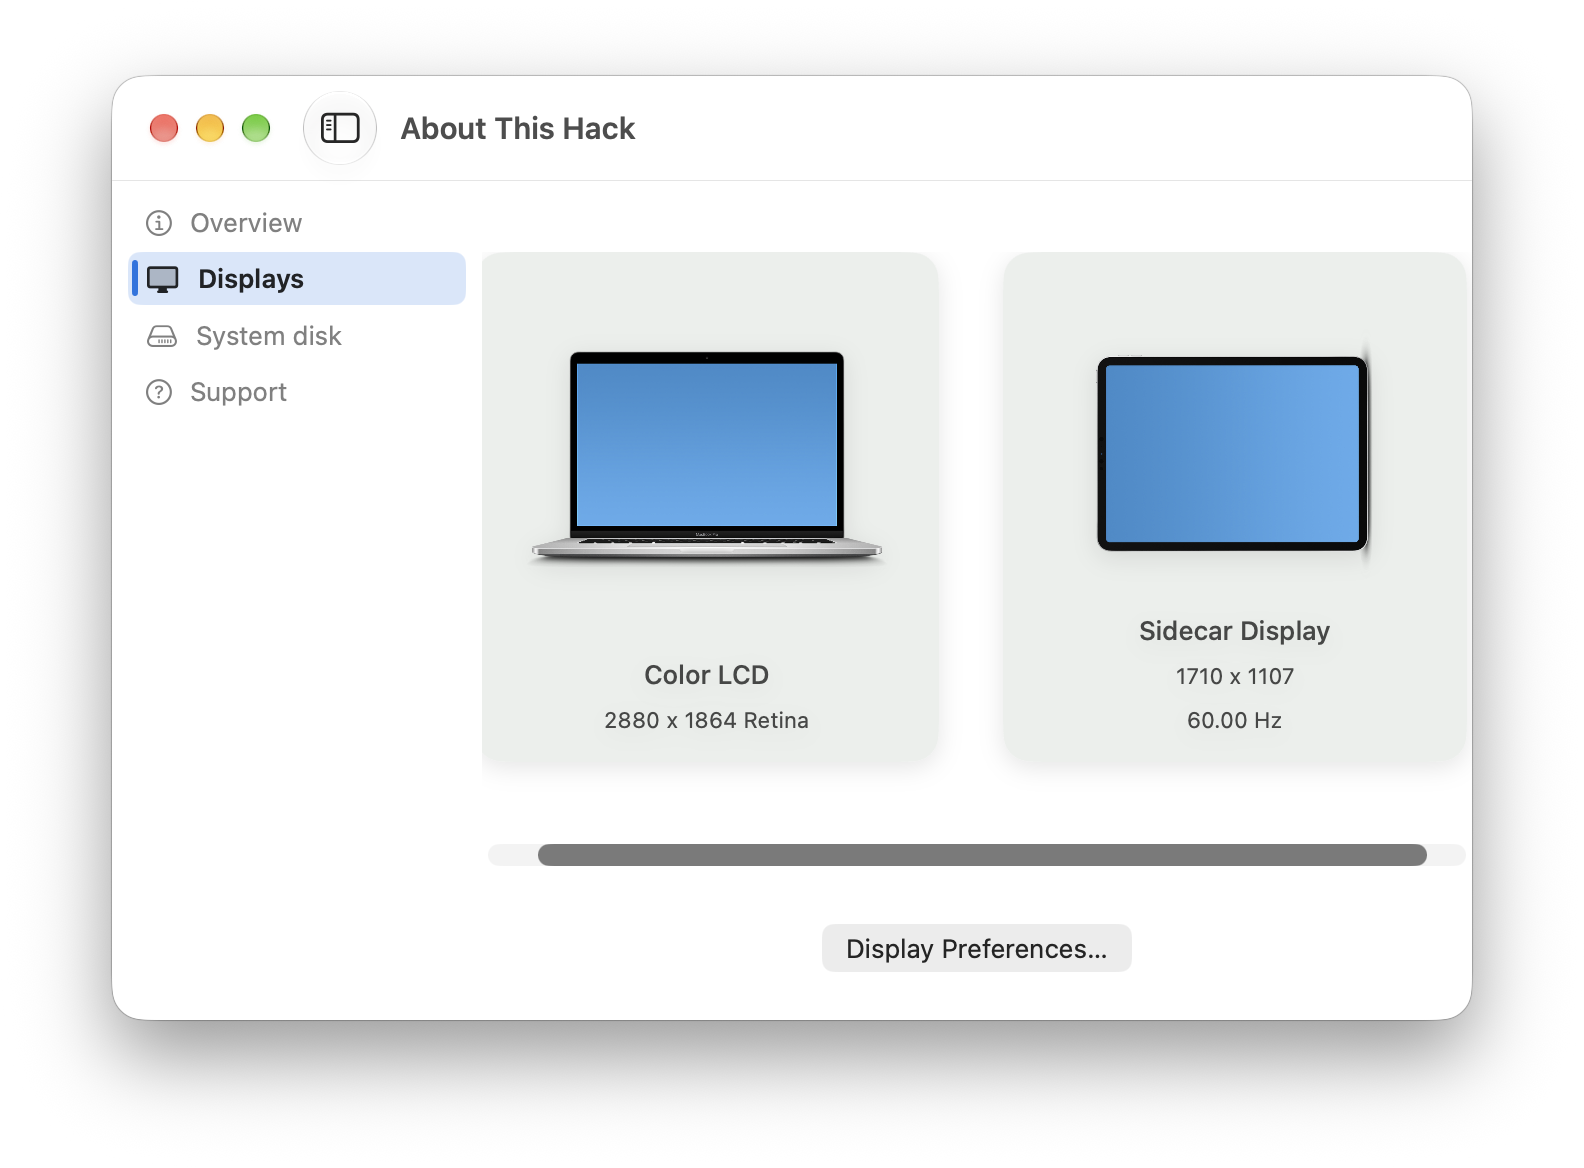
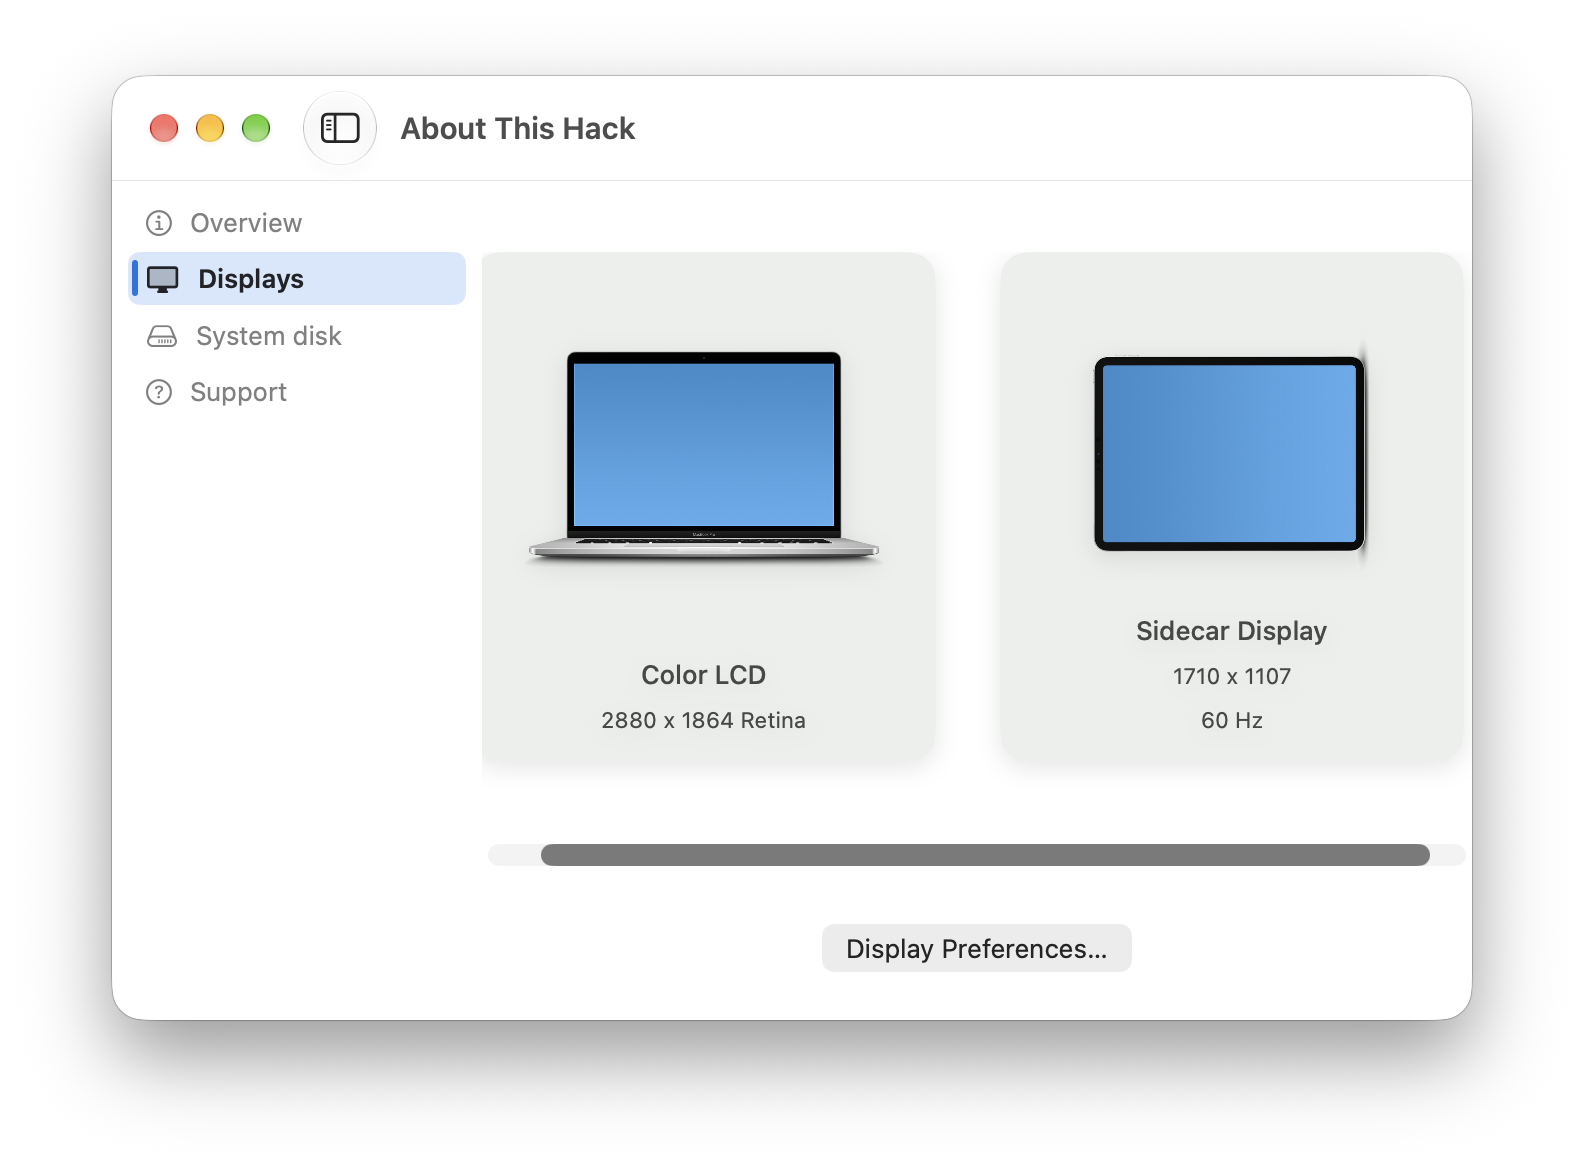
Normalize display refresh rate and bump version

diff --git a/About This Hack/HardwareCollector.swift b/About This Hack/HardwareCollector.swift
@@ -305,15 +305,28 @@ class HardwareCollector {
                 guard let range = trimmed.range(of: label) else { continue }
                 let value = String(trimmed[range.upperBound...]).trimmingCharacters(in: .whitespaces)
                 if let match = value.range(of: #"@\s*[\d.]+ ?Hz"#, options: .regularExpression) {
-                    return String(value[match])
+                    let refreshRate = String(value[match])
                         .replacingOccurrences(of: "@", with: "")
                         .trimmingCharacters(in: .whitespaces)
                         .replacingOccurrences(of: #"(\d)Hz"#, with: "$1 Hz", options: .regularExpression)
+                    return normalizeRefreshRate(refreshRate)
                 }
             }
         }
 
         return ""
+    }
+
+    private func normalizeRefreshRate(_ refreshRate: String) -> String {
+        let numeric = refreshRate
+            .replacingOccurrences(of: "Hz", with: "")
+            .trimmingCharacters(in: .whitespaces)
+
+        guard let hz = Double(numeric), hz > 0 else {
+            return refreshRate
+        }
+
+        return "\(Int(hz.rounded())) Hz"
     }
 
     private func getStorageInfo() -> (Bool, String, Double) {
